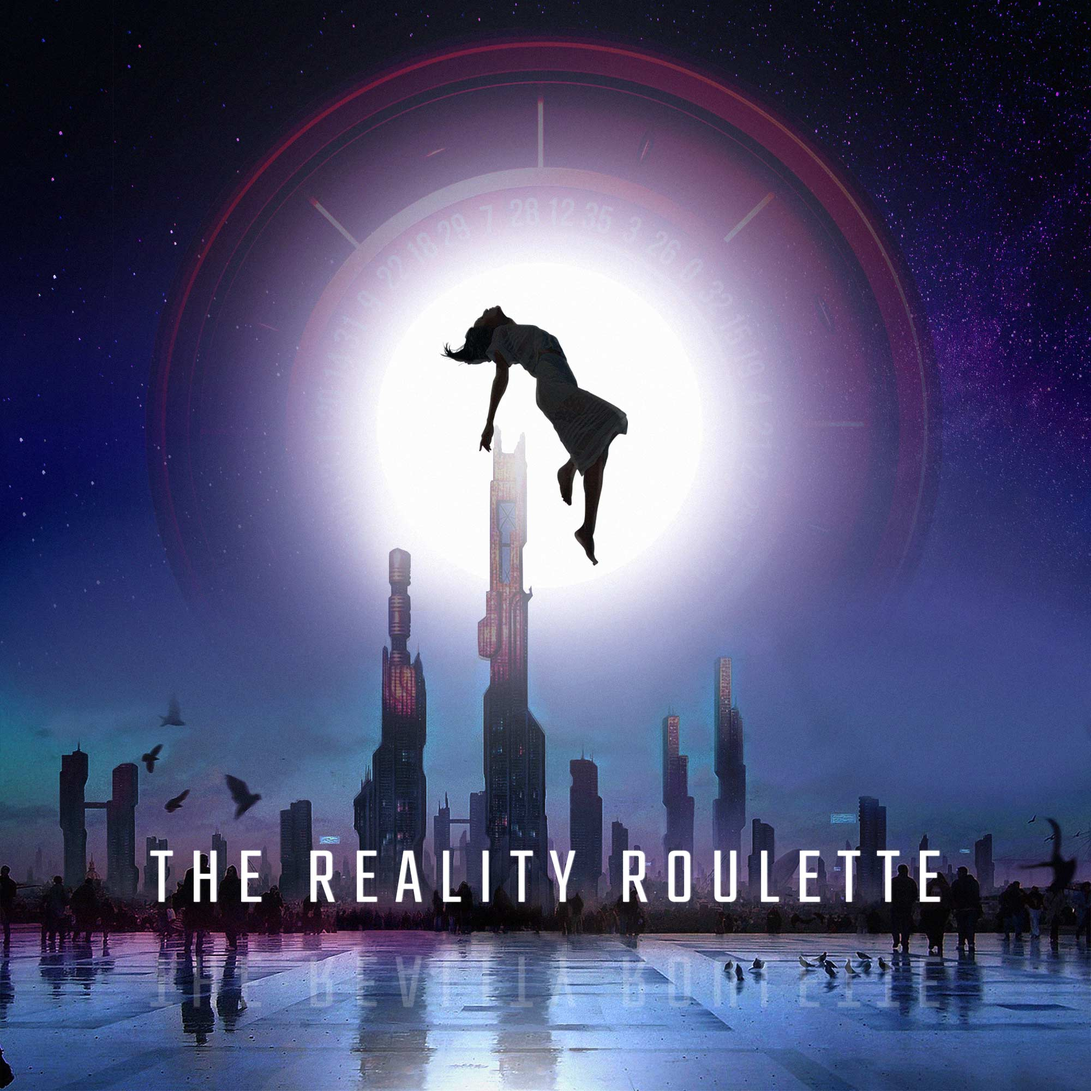
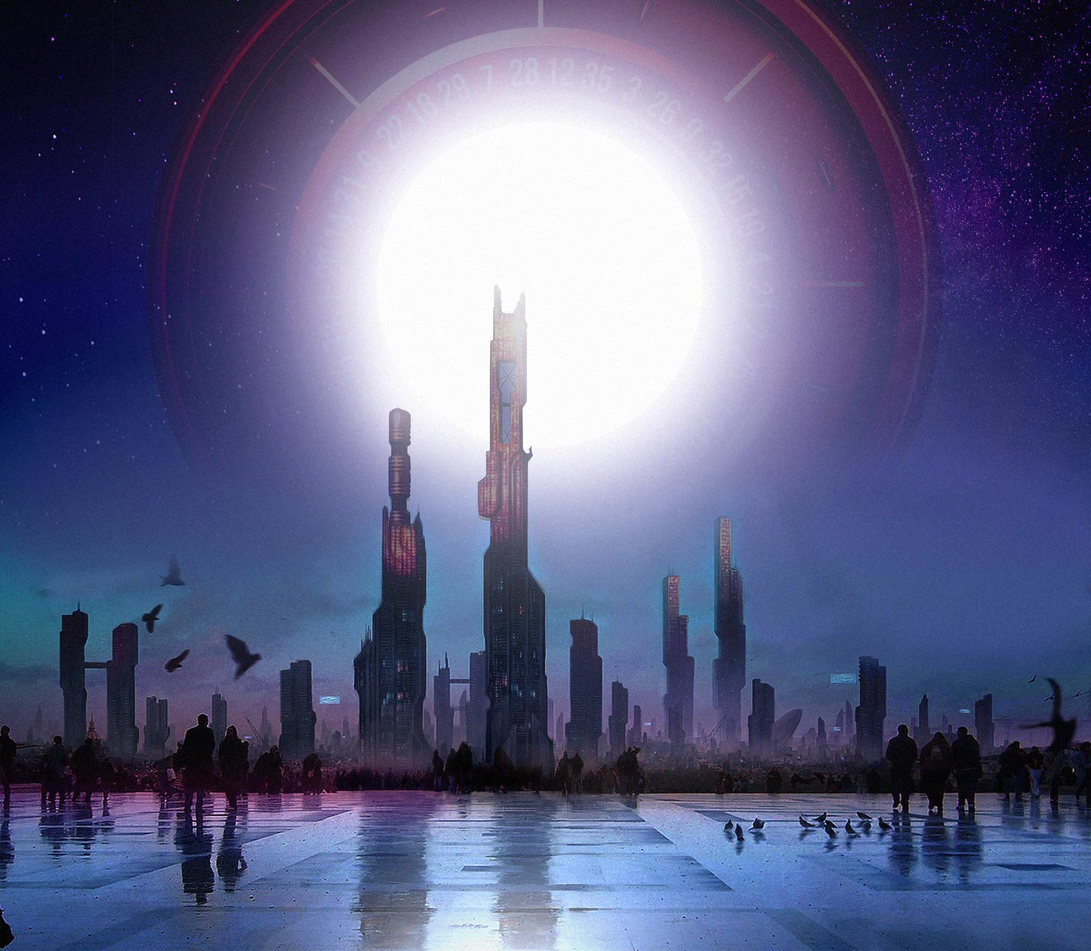
UI changes

diff --git a/src/js/main.js b/src/js/main.js
@@ -2,8 +2,16 @@ function init() {
     const MOBILE_WIDTH = 900;
     const vwWidth = Math.max(document.documentElement.clientWidth, window.innerWidth || 0);
     let img = document.createElement("img");
-    // console.log(vwWidth, MOBILE_WIDTH);
-    if(vwWidth > MOBILE_WIDTH) {
+    window.isMobile = vwWidth <= MOBILE_WIDTH;
+
+    if(!isMobile) {
+        document.getElementById("home").innerHTML += "<div id='home-subtitle'>THE REALITY ROULETTE</div>";
+
+        let ladyImg = document.createElement("img");
+        ladyImg.id = "lady-img";
+        ladyImg.src = require("../static/girl_float.png");
+        document.getElementById("lady-container").appendChild(ladyImg);
+
         img.src = require('../static/desktop-bg.jpg');
         img.id = "desktop-bg";
         document.getElementById("home").appendChild(img);
@@ -13,7 +21,7 @@ function init() {
         document.getElementById("home").innerHTML += 
         `
         <div id='mobile-bg'></div>
-        <div id='mobile-subtitle'>THE REALITY ROULETTE</div>
+        <div id='home-subtitle'>THE REALITY ROULETTE</div>
         <a id="watch-teaser-mobile" href="https://youtu.be/MqpPYIjDw4I" target="_blank" class="teaser-button">
             WATCH TEASER
         </a>
@@ -58,17 +66,39 @@ function init() {
                 .catch(err => console.log(err))
         }
     }
-    
+
     let homeFooterVisible = true;
+    let homeSubtitleVisible = true;
     let homeFooter = document.getElementsByClassName("home-footer")[0];
-    window.onscroll = (e) => {
-        if (homeFooterVisible && window.scrollY/window.innerHeight > 0.05) {
+    let homeSubtitle = document.getElementById("home-subtitle");
+    window.onscroll = () => {
+        const vwWidth = Math.max(document.documentElement.clientWidth, window.innerWidth || 0);
+        window.isMobile = vwWidth <= MOBILE_WIDTH;
+
+        if (homeFooterVisible && window.scrollY/window.innerHeight > 0.4) {
+            if(!isMobile) {
+                homeSubtitle.style.opacity = 0;
+                homeSubtitleVisible = false;
+                setTimeout(() => homeSubtitle.style.display = "none", 450);
+            }
+
             homeFooter.style.opacity = 0;
             homeFooterVisible = false;
+            setTimeout(() => homeFooter.style.display = "none", 450);
         }
-        else if (!homeFooterVisible && window.scrollY < 0.2) {
-            homeFooter.style.opacity = 1;
-            homeFooterVisible = true;
+        else if (!homeFooterVisible && window.scrollY/window.innerHeight < 0.4) {
+            homeSubtitle.style.display = "block";
+            homeFooter.style.display = "flex";
+
+            setTimeout(() => {
+                if(!isMobile) {
+                    homeSubtitle.style.opacity = 1;
+                    homeSubtitleVisible = false;
+                }
+
+                homeFooter.style.opacity = 1;
+                homeFooterVisible = true;
+            }, 10);
         }
     }
 

diff --git a/src/scss/home.scss b/src/scss/home.scss
@@ -1,16 +1,25 @@
 #home {
-    #mobile-subtitle {
+    #home-subtitle {
         width: 90vw;
-        position: absolute;
+        position: fixed;
         bottom: 100px;
         left: 50%;
         transform: translateX(-50%);
         font-family: 'Teko-Light';
         text-align: center;
-        font-size: 50px;
-        letter-spacing: 10px;
-        text-shadow: 1px 1px #ffffff60;
-        line-height: 60px;
+        font-size: 110px;
+        letter-spacing: 20px;
+        line-height: 110px;
+        z-index: 6;
+        transition: opacity 0.4s ease;
+        text-shadow: 3px 5px #00000060;
+
+        @media all and (max-width: 900px) {
+            font-size: 50px;
+            text-shadow: 1px 1px #ffffff60;
+            line-height: 50px;
+            letter-spacing: 10px;
+        }
     }
 
     #watch-teaser-mobile {
@@ -39,8 +48,36 @@
         width: 100vw;
         height: auto;
         position: relative;
-        top: -200px;
+        top: 0px;
         left: 0px;
+        z-index: 4;
+    }
+
+    #lady-container {
+        position: absolute;
+        top: 17%;
+        left: 0;
+        z-index:5;
+        width: 100%;
+        display: flex;
+        justify-content: center;
+    }
+
+    #lady-img {
+        width: 25vw;
+        animation: float 3.5s ease-in-out infinite;
+    }
+
+    @keyframes float {
+        0% {
+            transform: translateY(0px);
+        }
+        50% {
+            transform: translateY(-20px);
+        }
+        100% {
+            transform: translateY(0px);
+        }
     }
 
     #mobile-bg {
@@ -53,6 +90,11 @@
         top: 0px;
         left: 0px;
         margin-bottom: 50px;
+    }
+
+    .home-title {
+        position: absolute;
+
     }
 
     .home-content {
@@ -86,7 +128,7 @@
     }
 
     .home-footer {
-        position: absolute;
+        position: fixed;
         bottom: 0;
         width: 100%;
         height: 80px;
@@ -96,6 +138,7 @@
         letter-spacing: 1.5px;
         font-size: 95%;
         transition: opacity 0.4s linear;
+        z-index: 6;
 
         .home-footer-line-wrap {
             width: 25%;
@@ -151,7 +194,7 @@
     }
 
     @media all and (min-width: 900px) {
-        #mobile-subtitle, #watch-teaser-mobile {
+        #watch-teaser-mobile {
             display: none;
         }
     }

diff --git a/src/index.html b/src/index.html
@@ -264,7 +264,7 @@
             <span class="nav-link" data-to="about">About</span>
             <!-- <span class="nav-link view-all-events-btn" data-to="">ALL EVENTS</span> -->
             <span class="nav-link" data-to="events">KERNEL EVENTS</span>
-            <span class="nav-link"><a href = "https://bits-apogee.org/ca-2019" target="_blank">Campus Ambassador</a></span>
+            <span class="nav-link"><a href="https://bits-apogee.org/ca-2019" target="_blank">Campus Ambassador</a></span>
             <span class="nav-link" data-to="speakers">Speakers</span>
             <span class="nav-link" data-to="workshop">WORKSHOPS</span>
             <span class="nav-link" data-to=""><a href="./sponsors.html">Sponsors</a></span>
@@ -532,13 +532,14 @@
                     </div>
                 </div> -->
                 <div class="home-content-buttons mobile-only">
-                    <a href="https://youtu.be/MqpPYIjDw4I" target="_blank">
+                    <!-- <a href="https://youtu.be/MqpPYIjDw4I" target="_blank">
                         <div class="teaser-button mobile-only">WATCH TEASER</div>
-                    </a>
+                    </a> -->
 
                     <!-- <a href="https://youtu.be/MqpPYIjDw4I" target = "_blank"><div class = "teaser-button mobile-only">REGISTER</div></a> -->
                 </div>
             </div>
+            <div id="lady-container"></div>
             <div class="home-footer desktop-only">
                 <div class="social-links">
                     <div class="home-footer-line-wrap">

diff --git a/src/sponsors.html b/src/sponsors.html
@@ -28,10 +28,10 @@
 
     <div id="all-sponsors">
         <span id="all-sponsors-title">SPONSORS</span>
-        <div id="category-sponsors">
-        </div>
         <div id="all-sponsors-categories">
-            <span>Categories</span>
+            <!-- <span>Categories</span> -->
+        </div>
+        <div id="category-sponsors">
         </div>
     </div>
 </body>

diff --git a/src/scss/workshop.scss b/src/scss/workshop.scss
@@ -53,7 +53,7 @@
     width: 100px;
     height: 100px;
     align-self: center;
-    background-image: url('../imgs/cara.jpg');
+    // background-image: url('../imgs/cara.jpg');
     background-repeat: no-repeat;
     background-position: center;
     background-size: cover;

diff --git a/src/scss/events.scss b/src/scss/events.scss
@@ -36,7 +36,7 @@
 
 .event-image{
     width: 25%;
-    background-image: url('../imgs/cara.jpg');
+    // background-image: url('../imgs/cara.jpg');
     background-repeat: no-repeat;
     background-position: center;
     background-size: cover;

diff --git a/src/scss/about.scss b/src/scss/about.scss
@@ -197,7 +197,7 @@
         position: static;
         width: 90%;
         transform: none;
-        padding-left: 5vw;
+        padding-left: 3vw;
 
         h1 {
             font-size: 15vw;

diff --git a/src/scss/desktop.scss b/src/scss/desktop.scss
@@ -30,7 +30,7 @@
     transform: translateY(-50%);
     display: flex;
     flex-direction: column;
-    z-index: 5;
+    z-index: 6;
     transition: all 0.5s ease;
 }
 
